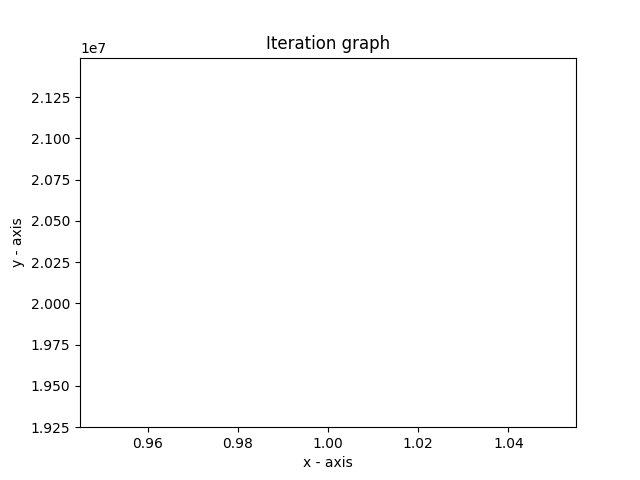
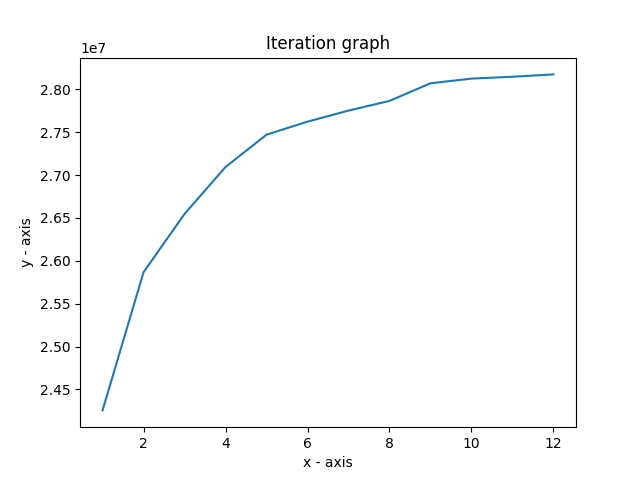
fine functionality added and now contstraint relaxation is possible

diff --git a/project_code/classes/land.py b/project_code/classes/land.py
@@ -27,7 +27,8 @@ class Land():
         # checks all land objects if overlap return true
         for land_object in self.all_land_objects:
             if land_object.name != 'water':
-                if house.polygon_free_space.intersects(land_object.polygon) == True or land_object.polygon_free_space.intersects(house.polygon_free_space) == True:
+                # if house.polygon_free_space.intersects(land_object.polygon) == True or land_object.polygon_free_space.intersects(house.polygon_free_space) == True:
+                if house.polygon.intersects(land_object.polygon) == True:
                     return True        
             elif land_object.name == 'water':
                 if land_object.polygon.intersects(house.polygon) == True:
@@ -79,7 +80,10 @@ class Land():
                 # extra_space = math.floor(nearest_geom[0].distance(nearest_geom[1]))
                 extra_space = nearest_geom[0].distance(nearest_geom[1])
                 house.nearest_neighbour = extra_space
-                all_polygons.append(house.polygon)        
+                all_polygons.append(house.polygon)  
+                house.fine = extra_space - house.free_space   
+                if house.fine > 0:
+                    house.fine = 0   
 
     def calculate_price(self, houses):
         '''
@@ -87,16 +91,17 @@ class Land():
         '''
 
         for house in houses:
+            
             if house.name == "familyhome":
-                house.price = 285000 + (285000 * 0.03 * house.nearest_neighbour)
+                house.price = 285000 + (285000 * 0.03 * house.nearest_neighbour) + (house.fine * 100000)
                 self.total += house.price
 
-            elif house.name == "bungalow":
-                house.price = 399000 + (399000 * 0.04 * house.nearest_neighbour)
+            elif house.name == "bungalow":                
+                house.price = 399000 + (399000 * 0.04 * house.nearest_neighbour) + (house.fine * 100000)
                 self.total += house.price
 
-            elif house.name == "maison":
-                house.price = 610000 + (610000 * 0.06 * house.nearest_neighbour)
+            elif house.name == "maison":                
+                house.price = 610000 + (610000 * 0.06 * house.nearest_neighbour) + (house.fine * 100000)
                 self.total += house.price
         
         return self.total
@@ -109,15 +114,15 @@ class Land():
 
         for house in houses:
             if house.name == "familyhome":
-                house.price = 285000 + (285000 * 0.03 * math.floor(house.nearest_neighbour))
+                house.price = 285000 + (285000 * 0.03 * math.floor(house.nearest_neighbour)) + (house.fine * 100000)
                 self.total_real += house.price
 
             elif house.name == "bungalow":
-                house.price = 399000 + (399000 * 0.04 * math.floor(house.nearest_neighbour))
+                house.price = 399000 + (399000 * 0.04 * math.floor(house.nearest_neighbour)) + (house.fine * 100000)
                 self.total_real += house.price
 
             elif house.name == "maison":
-                house.price = 610000 + (610000 * 0.06 * math.floor(house.nearest_neighbour))
+                house.price = 610000 + (610000 * 0.06 * math.floor(house.nearest_neighbour)) + (house.fine * 100000)
                 self.total_real += house.price
         
         return self.total_real

diff --git a/project_code/classes/house.py b/project_code/classes/house.py
@@ -15,6 +15,9 @@ class House():
         self.width_with_freespace = self.width + (self.free_space * 2)
         self.depth_with_freespace = self.depth + (self.free_space * 2)
         self.polygon_free_space = polygon_free_space
+        self.fine = 12
+
+
 
     def __str__(self):
         return (f"name:{self.name}, left_bottom: {self.bottom_left}, top_right: {self.top_right}")
@@ -25,16 +28,7 @@ class House():
         self.bottom_left = tuple((self.bottom_left[0] + change_x, self.bottom_left[1] + change_y))
         self.top_right = tuple((self.top_right[0] + change_x, self.top_right[1] + change_y))
 
-        # # update the polygons
-        # self.polygon = Polygon([(self.bottom_left[0] + self.free_space, self.bottom_left[1] + self.free_space), (self.bottom_left[0] + self.width + self.free_space, self.bottom_left[1] + self.free_space), (self.bottom_left[0] + self.width + self.free_space, self.bottom_left[1] + self.depth + self.free_space), (self.bottom_left[0] + self.free_space, self.bottom_left[1] + self.depth + self.free_space)])
-        # self.polygon_free_space = Polygon([self.bottom_left, (self.bottom_left[0] + self.width_with_freespace, self.bottom_left[1]), (self.bottom_left[0] + self.width_with_freespace, self.bottom_left[1] + self.depth_with_freespace), (self.bottom_left[0], self.bottom_left[1] + self.depth_with_freespace)])
-        
         # update the polygons
         self.polygon = Polygon([(self.bottom_left[0], self.bottom_left[1]), (self.bottom_left[0] + self.width, self.bottom_left[1]), (self.bottom_left[0] + self.width, self.bottom_left[1] + self.depth), (self.bottom_left[0], self.bottom_left[1] + self.depth)])
         self.polygon_free_space = Polygon([(self.bottom_left[0] - self.free_space, self.bottom_left[1] - self.free_space), (self.bottom_left[0] + self.width_with_freespace - self.free_space, self.bottom_left[1] - self.free_space), (self.bottom_left[0] + self.width_with_freespace - self.free_space, self.bottom_left[1] + self.depth_with_freespace - self.free_space), (self.bottom_left[0] - self.free_space, self.bottom_left[1] + self.depth_with_freespace - self.free_space)])
 
-        # # checks if house is outside the borders of the land
-        # if self.bottom_left[0] < self.free_space or self.bottom_left[0] > 180 - self.width_with_freespace or self.bottom_left[1] < self.free_space or self.bottom_left[1] > 160 - self.depth_with_freespace or self.top_right[0] < self.width_with_freespace or self.top_right[0] > 180 - self.free_space or self.top_right[1] < self.depth_with_freespace or self.top_right[1] > 160 - self.free_space:
-        #     return False
-        # else:
-        #     return True

diff --git a/project_code/algorithms/hillclimber.py b/project_code/algorithms/hillclimber.py
@@ -21,9 +21,6 @@ class HillClimber():
         if house.bottom_left[0] < house.free_space or house.bottom_left[0] > 180 - house.width_with_freespace or house.bottom_left[1] < house.free_space or house.bottom_left[1] > 160 - house.depth_with_freespace or house.top_right[0] < house.width_with_freespace or house.top_right[0] > 180 - house.free_space or house.top_right[1] < house.depth_with_freespace or house.top_right[1] > 160 - house.free_space:
             return False
 
-        if house.nearest_neighbour < house.free_space:
-            print("there is overlap")
-
         return True
 
     def run(self, housing_map):
@@ -34,8 +31,8 @@ class HillClimber():
         generations.append("copy_map")
         current_best_value = copy_map.total
         counter = 0
-        iterations = 1
-        steps = 30
+        iterations = 12
+        steps = 1
 
         # data for iteration graph
         iteration_counter = 0
@@ -207,7 +204,7 @@ class HillClimber():
                     generations = ["copy_map"]
 
             counter += 1
-            print(counter)
+            print(f"counter: {counter}")
             # data for iteration graph
             iteration_counter += 1
             total_iterations.append(iteration_counter)
@@ -221,6 +218,11 @@ class HillClimber():
         print(f"total: {copy_map.total}")
         print(f"total_real: {copy_map.total_real}")
         
+        for house in copy_map.all_land_objects:
+            if house.name != "water":
+                # if house.nearest_neighbour < house.free_space:
+                print(f"fine: {house.fine}")
+
         plt.plot(total_iterations, results)
         plt.xlabel('x - axis')
         plt.ylabel('y - axis') 
